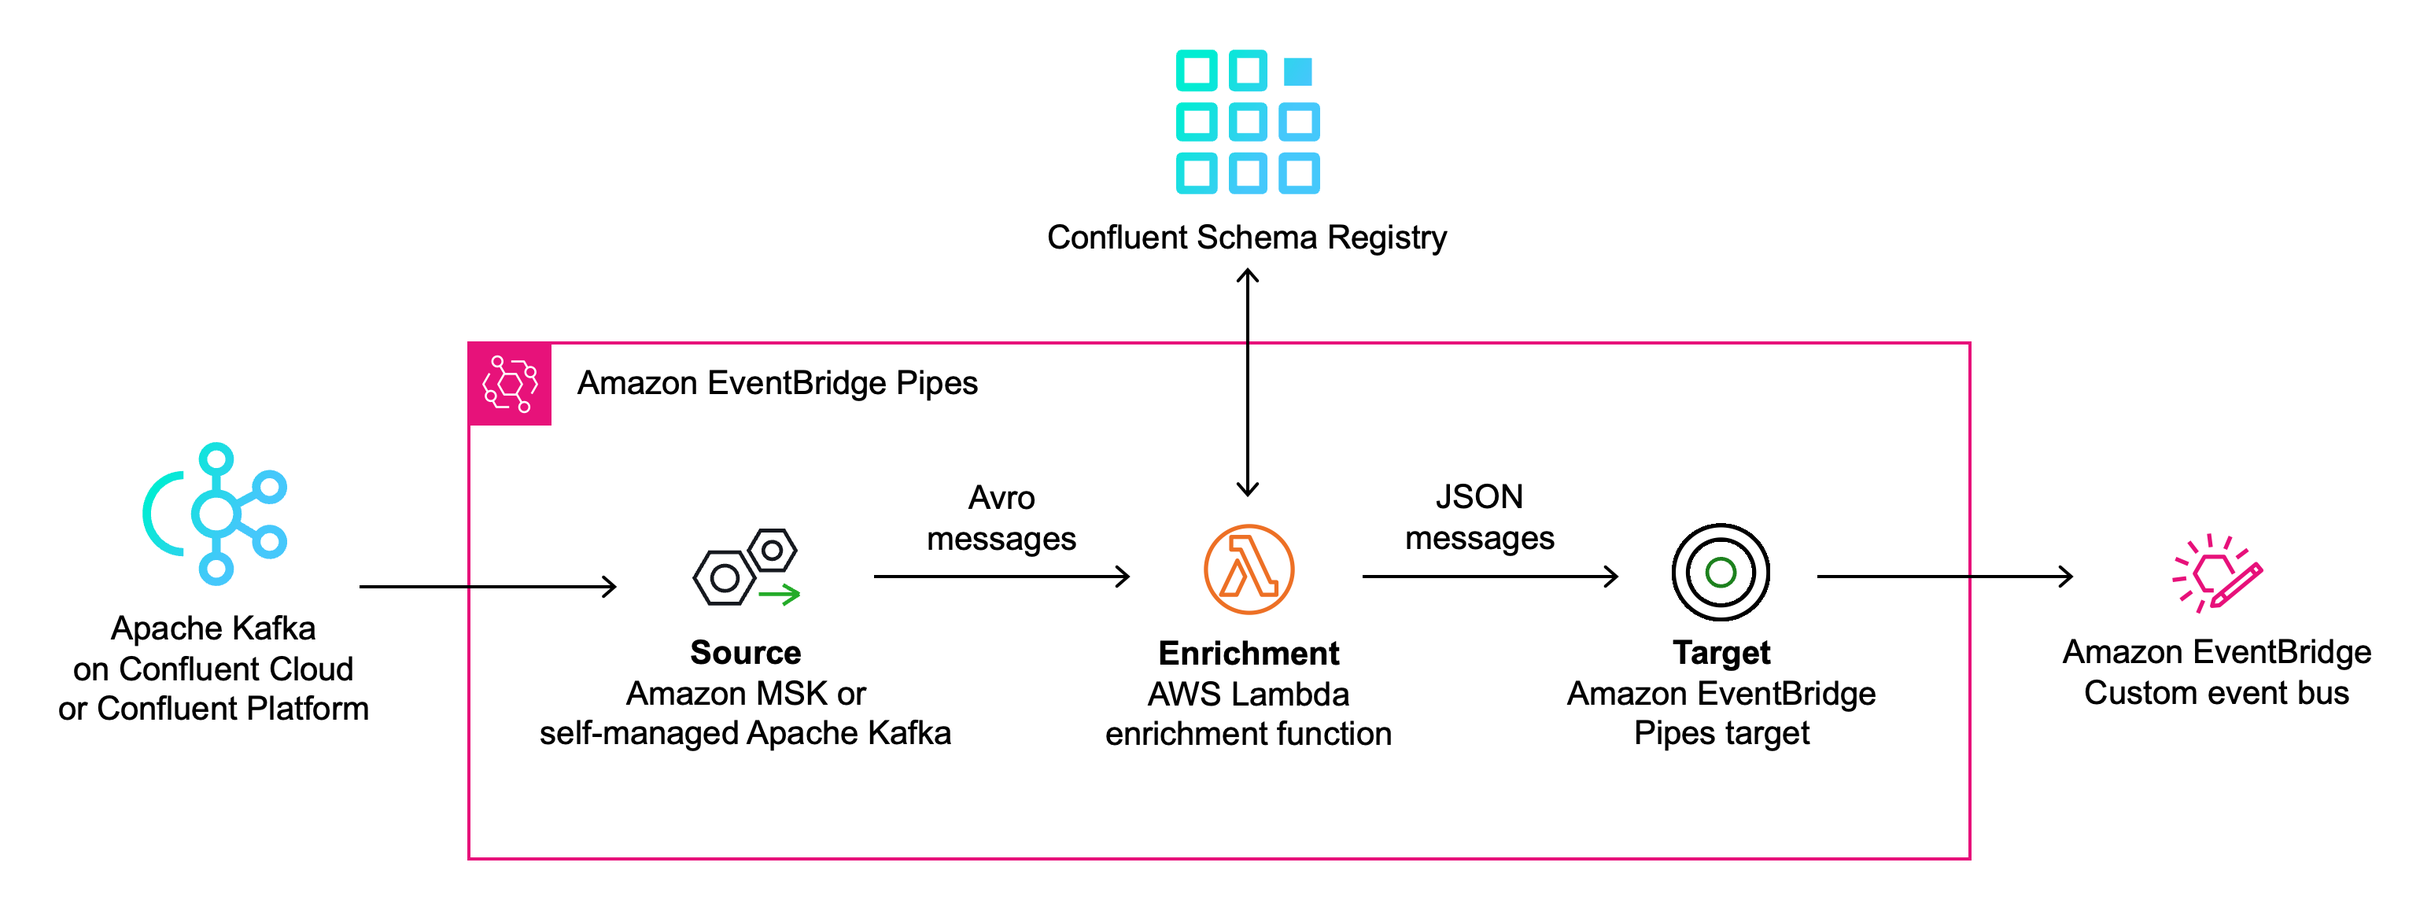
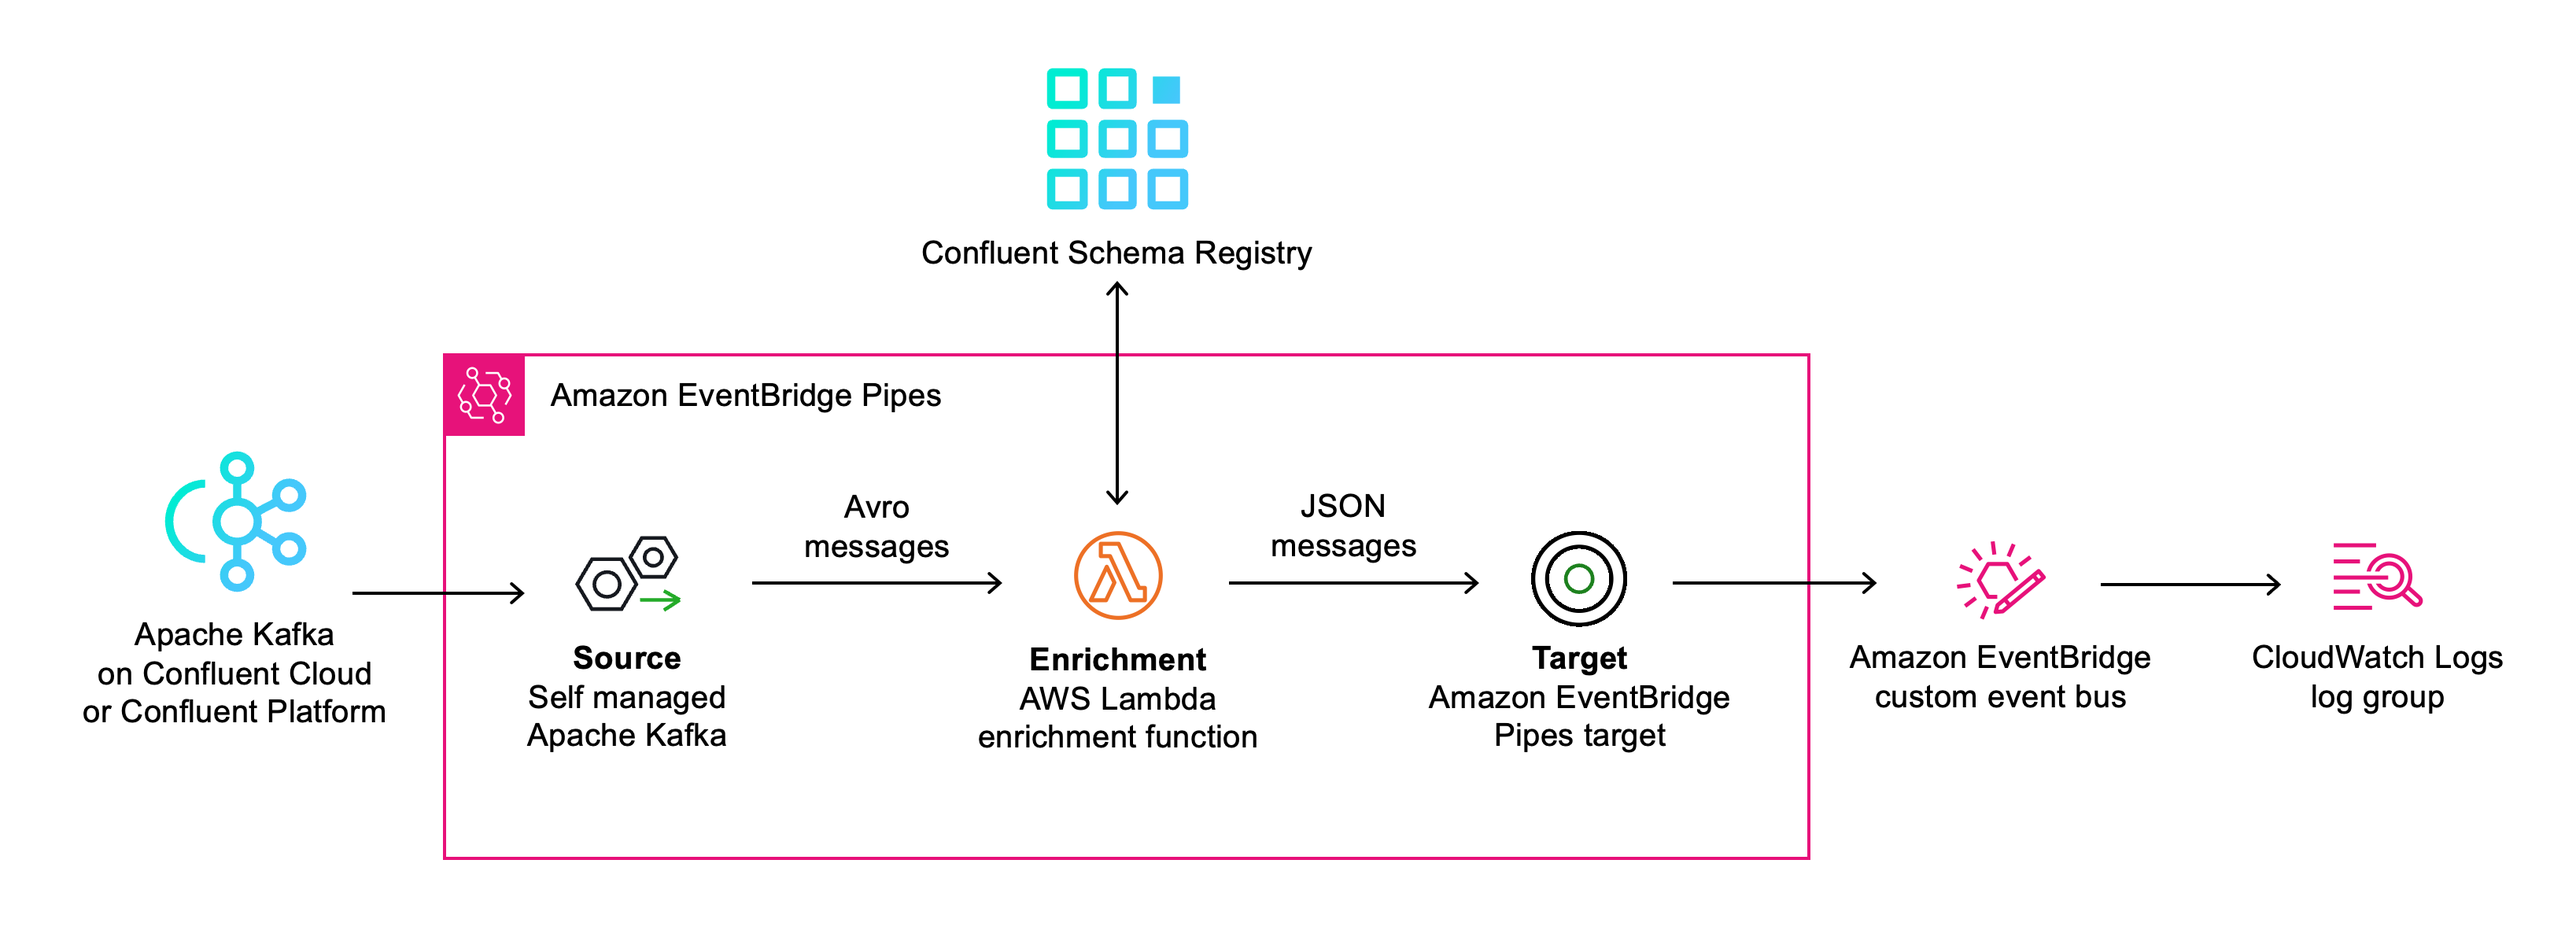
Updating architecture image and readme.

diff --git a/pipes-schema-validation-confluent/README.md b/pipes-schema-validation-confluent/README.md
@@ -1,6 +1,6 @@
 # Event schema validation for Apache Kafka with EventBridge Pipes and Confluent Schema Registry
 
-This pattern allows you to perform event schema validation for events consumed by [Amazon EventBridge Pipes](https://docs.aws.amazon.com/eventbridge/latest/userguide/eb-pipes.html) from a [self managed Apache Kafka stream as source](https://docs.aws.amazon.com/eventbridge/latest/userguide/eb-pipes-kafka.html) using [Confluent Schema Registry](https://gitlab.aws.dev/pbv/pipes-schema-validation).
+This pattern allows you to perform event schema validation and transformation from Avro to JSON for events consumed by [Amazon EventBridge Pipes](https://docs.aws.amazon.com/eventbridge/latest/userguide/eb-pipes.html) from a [self managed Apache Kafka stream as source](https://docs.aws.amazon.com/eventbridge/latest/userguide/eb-pipes-kafka.html) using [Confluent Schema Registry](https://gitlab.aws.dev/pbv/pipes-schema-validation).
 
 Learn more about this pattern at Serverless Land Patterns: https://serverlessland.com/patterns/pipes-schema-validation-confluent
 
@@ -134,7 +134,7 @@ The function performs the following tasks:
 
 1. For each event in the batch passed to the function, it validates that all expected fields (such as `topic` , `key`, and `value`) are present using the [Powertools validation utility](https://docs.powertools.aws.dev/lambda/python/latest/utilities/validation/).
 
-1. In the messages polled by the EventBridge pipe from the Kafka stream, the `key` and `value` of the message are Base64 encoded. Therefore, for each message contained in the batch passed to the function, the function decodes both the `key` and the `value`.
+1. In the messages polled by the EventBridge pipe from the Kafka stream, the `key` and `value` of the message are `base64` encoded. Therefore, for each message contained in the batch passed to the function, the function decodes both the `key` and the `value`.
 
 1. The message `value` is deserialized using the `confluent-kafka` [`AvroDeserializer`](https://docs.confluent.io/platform/current/clients/confluent-kafka-python/html/index.html#schemaregistry-avro-deserializer).
 
@@ -150,39 +150,27 @@ The function performs the following tasks:
 
 1. Deploy this pattern using the above deployment instructions. The EventBridge pipe will start polling messages from the Kafka stream.
 
-   Polled message batches are passed to the enrichment Lambda function and have the following format. The `value` field is `base64`-encoded using an Avro schema
+   Polled message batches are passed to the enrichment Lambda function and have the following format. Note that the `key` field is `base64`-encoded and the `value` field is serialized in [Apache Avro](https://avro.apache.org/) as well as `base64`-encoded at this point.
 
    ```json
    [
      {
        "topic": "topic_0",
-       "partition": 3,
-       "offset": 261350,
-       "timestamp": 1692625627671,
+       "partition": 0,
+       "offset": 261757,
+       "timestamp": 1692895006657,
        "timestampType": "CREATE_TIME",
-       "key": "MTU3MDI4Mg==",
[1 lines of base64/hex data omitted]
+       "key": "MTU3MTMxNA==",
[1 lines of base64/hex data omitted]
        "headers": [
          // ...
        ],
-       "bootstrapServers": "smk://<Kafka cluster bootstrap server endpoint>",
+       "bootstrapServers": "smk://pkc-ymrq7.us-east-2.aws.confluent.cloud:9092",
        "eventSource": "SelfManagedKafka",
-       "eventSourceKey": "topic_0-3"
+       "eventSourceKey": "topic_0-0"
      },
      {
-       "topic": "topic_0",
-       "partition": 1,
-       "offset": 261940,
-       "timestamp": 1692625627512,
-       "timestampType": "CREATE_TIME",
-       "key": "MTU3MDI4MQ==",
[1 lines of base64/hex data omitted]
-       "headers": [
-         // ...
-       ],
-       "bootstrapServers": "smk://<Kafka cluster bootstrap server endpoint>",
-       "eventSource": "SelfManagedKafka",
-       "eventSourceKey": "topic_0-1"
+       // Additional messages in batch
      }
    ]
    ```
@@ -192,16 +180,16 @@ The function performs the following tasks:
    ```json
    {
      "topic": "topic_0",
-     "key": "1570282",
+     "key": "1571314",
      "value": {
-       "ordertime": 1512463243870,
-       "orderid": 1570282,
-       "itemid": "Item_78",
-       "orderunits": 5.827244831262762,
+       "ordertime": 1516406508988,
+       "orderid": 1571314,
+       "itemid": "Item_993",
+       "orderunits": 2.871443766969904,
        "address": {
-         "city": "City_59",
-         "state": "State_",
-         "zipcode": 88893
+         "city": "City_74",
+         "state": "State_8",
+         "zipcode": 82031
        }
      }
    }
@@ -212,25 +200,25 @@ The function performs the following tasks:
    ```json
    {
      "version": "0",
-     "id": "05b30da6-a23f-5a2e-c7cd-6268b7cada91",
+     "id": "50b08aa0-4ca1-6141-455e-9ab3c9e5b09c",
      "detail-type": "Event from SelfManagedKafka",
-     "source": "Pipe pipe-09cskCabc123",
+     "source": "Pipe pipe-NFoZAWVCFV0j",
      "account": "217510216024",
-     "time": "2023-08-21T15:36:24Z",
-     "region": "us-east-1",
+     "time": "2023-08-24T16:36:53Z",
+     "region": "eu-west-1",
      "resources": [],
      "detail": {
        "topic": "topic_0",
-       "key": "1571307",
+       "key": "1571314",
        "value": {
-         "ordertime": 1489840159594,
-         "orderid": 1571307,
-         "itemid": "Item_154",
-         "orderunits": 2.249184025016022,
+         "ordertime": 1516406508988,
+         "orderid": 1571314,
+         "itemid": "Item_993",
+         "orderunits": 2.871443766969904,
          "address": {
-           "city": "City_7",
-           "state": "State_",
-           "zipcode": 10485
+           "city": "City_74",
+           "state": "State_8",
+           "zipcode": 82031
          }
        }
      }
